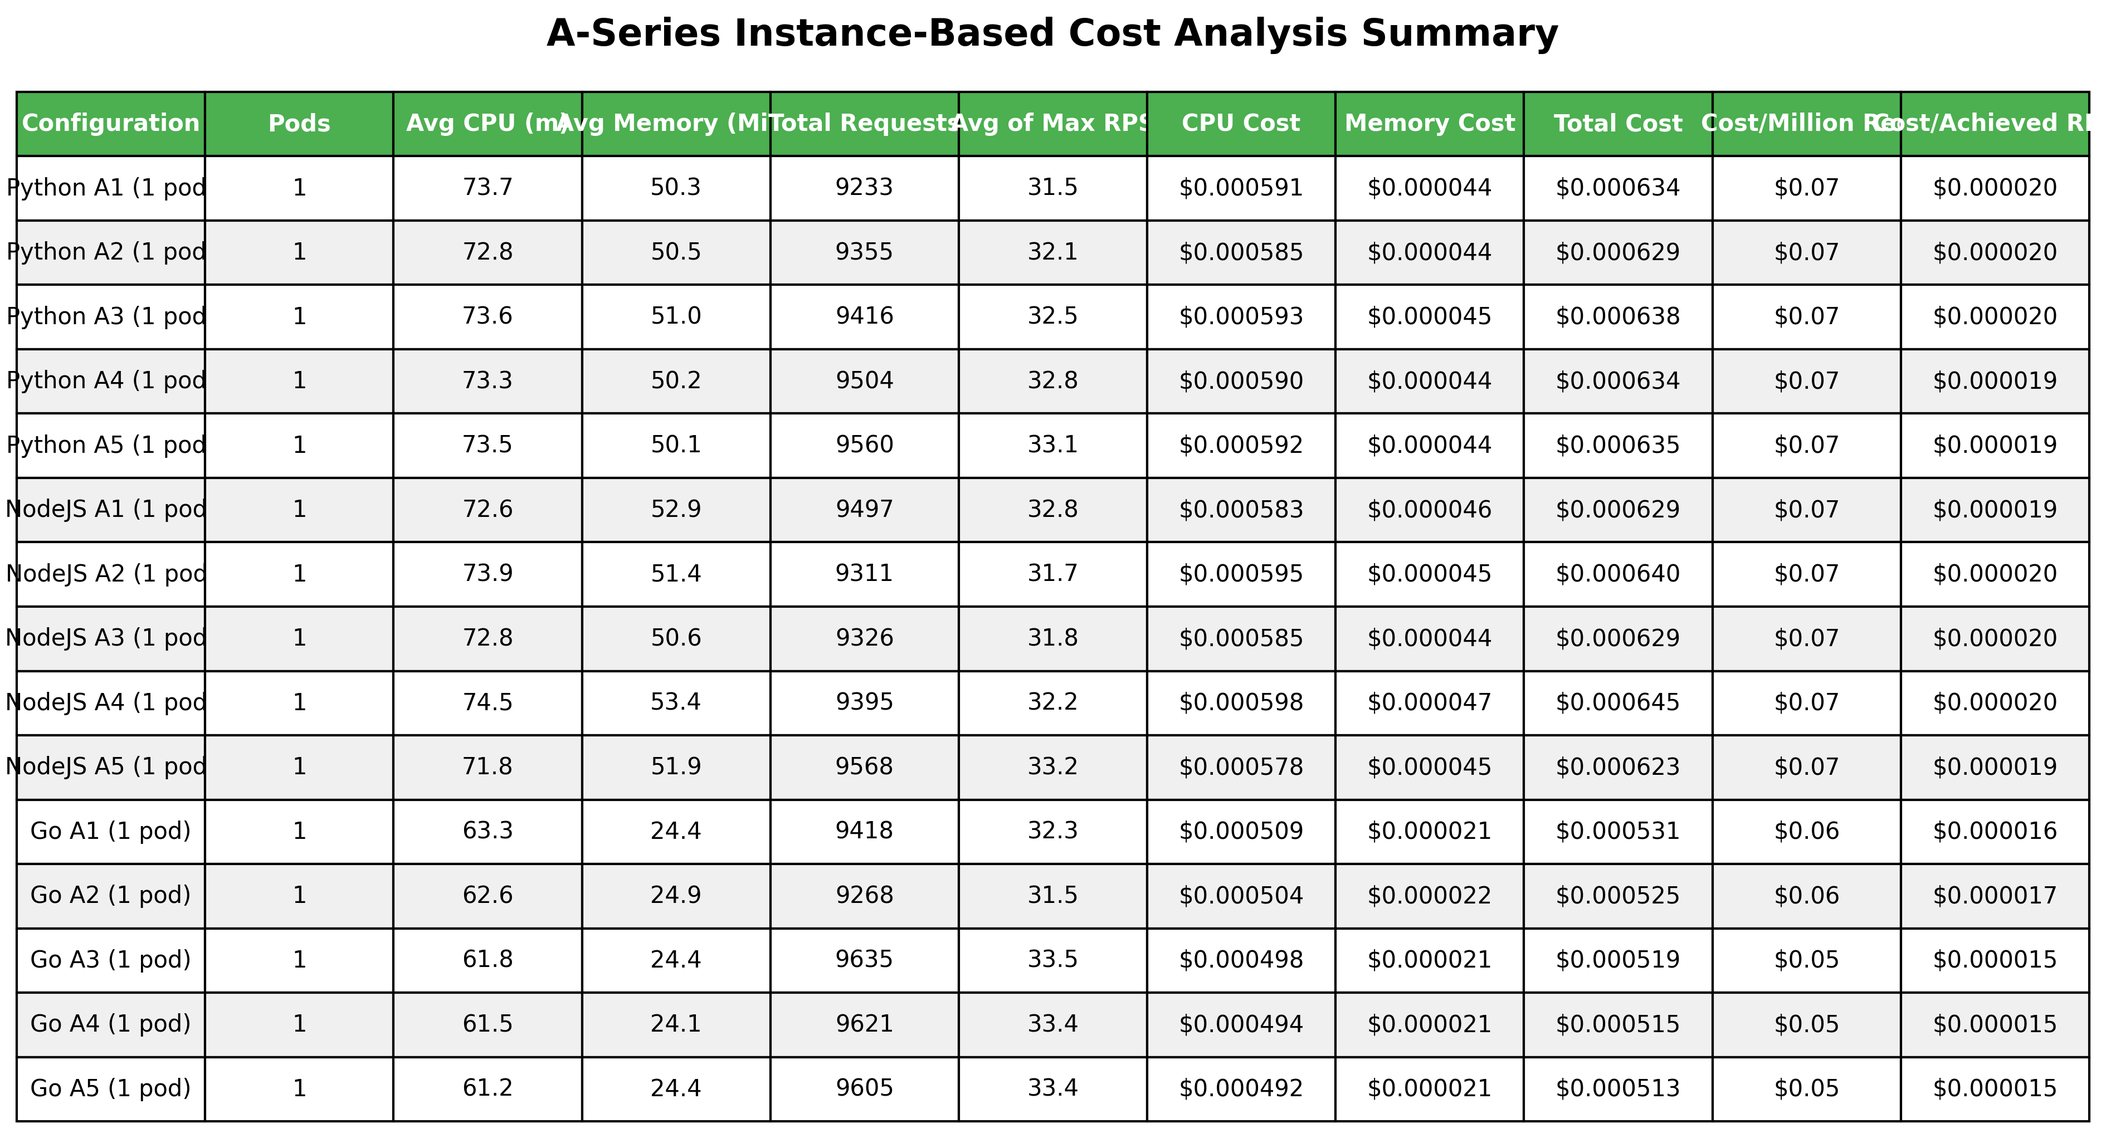
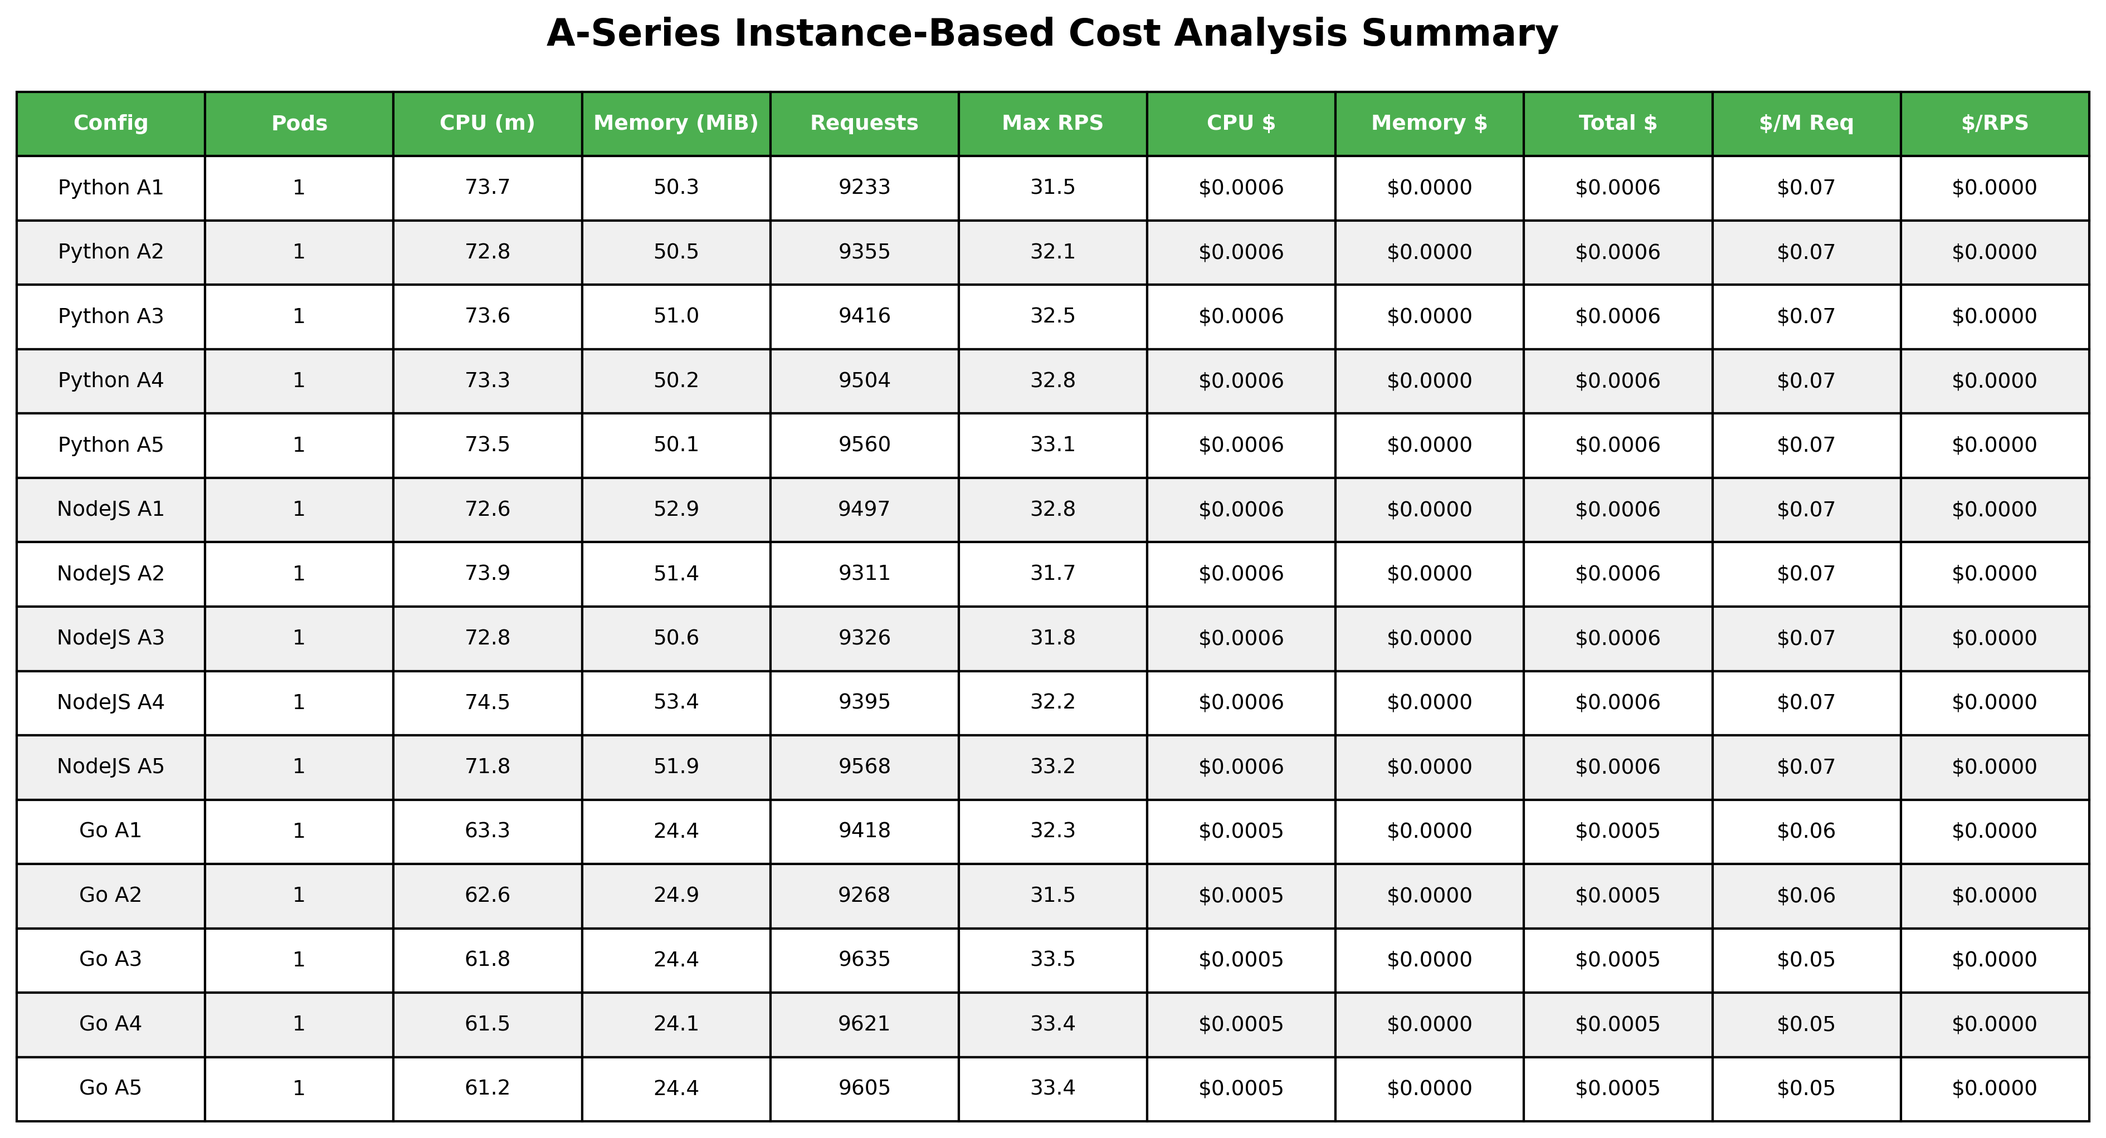
Improve visualization formatting and remove value labels
- Fix title positioning in a_series_max_throughput_comparison.png
- Move legend outside chart area to prevent overlap
- Remove value labels from simple cost comparison charts for cleaner appearance
- Fix bar naming alignment issues in cost visualizations
- Clean configuration names by removing pod count information
- Update titles to distinguish request-based vs instance-based visualizations
- Improve summary table formatting with shorter column names
- Regenerate all A, B, C series charts for both request-based and instance-based
- Add new scaling trend visualizations for A-series

diff --git a/latency_analysis/gcr_cost_visualizer.py b/latency_analysis/gcr_cost_visualizer.py
@@ -17,27 +17,27 @@ class GCRCostVisualizer:
     def plot_cost_comparison(self, results_df, series_type="B", save_path=None):
         """Create comprehensive cost comparison charts"""
         fig, ((ax1, ax2), (ax3, ax4)) = plt.subplots(2, 2, figsize=(15, 12))
-        fig.suptitle(f'Google Cloud Run {series_type.upper()}-Series Cost Analysis', fontsize=16, fontweight='bold')
+        fig.suptitle(f'Google Cloud Run {series_type.upper()}-Series Request-Based Cost Analysis', fontsize=16, fontweight='bold')
         
         # 1. Total Cost by Configuration
-        ax1.bar(results_df['config'], results_df['total_cost'], 
+        bars1 = ax1.bar(results_df['config'], results_df['total_cost'], 
                 color=self.colors[:len(results_df)], alpha=0.8)
         ax1.set_title('Total Cost by Configuration')
         ax1.set_ylabel('Cost (USD)')
         ax1.tick_params(axis='x', rotation=45)
         
         # Add value labels on bars
-        for i, v in enumerate(results_df['total_cost']):
-            ax1.text(i, v + max(results_df['total_cost']) * 0.01, f'${v:.6f}', 
-                    ha='center', va='bottom', fontweight='bold')
+        for i, (bar, v) in enumerate(zip(bars1, results_df['total_cost'])):
+            ax1.text(bar.get_x() + bar.get_width()/2, bar.get_height() + max(results_df['total_cost']) * 0.05, 
+                    f'${v:.6f}', ha='center', va='bottom', fontweight='bold', fontsize=9)
         
         # 2. Cost Breakdown (Compute vs Requests)
         width = 0.35
         x = np.arange(len(results_df))
         
-        ax2.bar(x, results_df['compute_cost'], width, label='Compute Cost', 
+        bars2a = ax2.bar(x, results_df['compute_cost'], width, label='Compute Cost', 
                 color='lightblue', alpha=0.8)
-        ax2.bar(x, results_df['request_cost'], width, bottom=results_df['compute_cost'],
+        bars2b = ax2.bar(x, results_df['request_cost'], width, bottom=results_df['compute_cost'],
                 label='Request Cost', color='lightcoral', alpha=0.8)
         
         ax2.set_title('Cost Breakdown: Compute vs Requests')
@@ -84,35 +84,45 @@ class GCRCostVisualizer:
         
     def plot_simple_cost_comparison(self, results_df, series_type="B", save_path=None):
         """Create simplified cost comparison charts (Total Cost + Cost Breakdown only)"""
-        fig, (ax1, ax2) = plt.subplots(1, 2, figsize=(15, 6))
-        fig.suptitle(f'Google Cloud Run {series_type.upper()}-Series Simple Cost Analysis', fontsize=16, fontweight='bold')
+        fig, (ax1, ax2) = plt.subplots(1, 2, figsize=(16, 8))
+        fig.suptitle(f'Google Cloud Run {series_type.upper()}-Series Request-Based Simple Cost Analysis', fontsize=16, fontweight='bold')
+        
+        # Clean config names by removing pod info for cleaner display
+        clean_configs = [config.split(' (')[0] for config in results_df['config']]
         
         # 1. Total Cost by Configuration
-        ax1.bar(results_df['config'], results_df['total_cost'], 
-                color=self.colors[:len(results_df)], alpha=0.8)
-        ax1.set_title('Total Cost by Configuration')
-        ax1.set_ylabel('Cost (USD)')
-        ax1.tick_params(axis='x', rotation=45)
+        x1 = np.arange(len(results_df))
+        bars1 = ax1.bar(x1, results_df['total_cost'], 
+                color=self.colors[:len(results_df)], alpha=0.8, width=0.7)
+        ax1.set_title('Total Cost by Configuration', fontsize=14, fontweight='bold')
+        ax1.set_ylabel('Cost (USD)', fontsize=12)
+        ax1.set_xticks(x1)
+        ax1.set_xticklabels(clean_configs, rotation=45, ha='right', fontsize=10)
         
-        # Add value labels on bars
-        for i, v in enumerate(results_df['total_cost']):
-            ax1.text(i, v + max(results_df['total_cost']) * 0.01, f'${v:.6f}', 
-                    ha='center', va='bottom', fontweight='bold')
+        # Set y-axis limit
+        max_cost = max(results_df['total_cost'])
+        ax1.set_ylim(0, max_cost * 1.1)
+        ax1.grid(True, alpha=0.3, axis='y')
         
         # 2. Cost Breakdown (Compute vs Requests)
-        width = 0.35
-        x = np.arange(len(results_df))
+        x2 = np.arange(len(results_df))
+        width = 0.7
         
-        ax2.bar(x, results_df['compute_cost'], width, label='Compute Cost', 
+        bars2a = ax2.bar(x2, results_df['compute_cost'], width, label='Compute Cost', 
                 color='lightblue', alpha=0.8)
-        ax2.bar(x, results_df['request_cost'], width, bottom=results_df['compute_cost'],
+        bars2b = ax2.bar(x2, results_df['request_cost'], width, bottom=results_df['compute_cost'],
                 label='Request Cost', color='lightcoral', alpha=0.8)
         
-        ax2.set_title('Cost Breakdown: Compute vs Requests')
-        ax2.set_ylabel('Cost (USD)')
-        ax2.set_xticks(x)
-        ax2.set_xticklabels(results_df['config'], rotation=45)
-        ax2.legend()
+        ax2.set_title('Cost Breakdown: Compute vs Requests', fontsize=14, fontweight='bold')
+        ax2.set_ylabel('Cost (USD)', fontsize=12)
+        ax2.set_xticks(x2)
+        ax2.set_xticklabels(clean_configs, rotation=45, ha='right', fontsize=10)
+        ax2.legend(fontsize=10)
+        ax2.grid(True, alpha=0.3, axis='y')
+        
+        # Set y-axis limit
+        max_total = max(results_df['total_cost'])
+        ax2.set_ylim(0, max_total * 1.1)
         
         plt.tight_layout()
         
@@ -165,7 +175,7 @@ class GCRCostVisualizer:
     def plot_cost_efficiency_analysis(self, results_df, series_type="B", save_path=None):
         """Create detailed cost efficiency analysis"""
         fig, ((ax1, ax2), (ax3, ax4)) = plt.subplots(2, 2, figsize=(15, 12))
-        fig.suptitle(f'{series_type.upper()}-Series Cost Efficiency Analysis', fontsize=16, fontweight='bold')
+        fig.suptitle(f'{series_type.upper()}-Series Request-Based Cost Efficiency Analysis', fontsize=16, fontweight='bold')
         
         # 1. Cost per Request
         cost_per_request = results_df['total_cost'] / results_df['total_requests'] * 1000000  # Cost per million requests
@@ -214,19 +224,20 @@ class GCRCostVisualizer:
         
     def create_cost_summary_table(self, results_df, series_type="B", save_path=None):
         """Create a formatted summary table"""
-        # Prepare data for table
+        # Prepare data for table - remove pod info from config names and shorten column names
+        config_names = results_df['config'].str.replace(r' \(\d+ pod\)', '', regex=True)
         summary_data = {
-            'Configuration': results_df['config'],
+            'Config': config_names,
             'Pods': results_df['pods'].astype(int),
-            'Avg CPU (m)': results_df['avg_cpu'].round(1),
-            'Avg Memory (MiB)': results_df['avg_memory'].round(1),
-            'Total Requests': results_df['total_requests'].astype(int),
-            'Avg of Max RPS': results_df['avg_of_max_rps'].round(1) if 'avg_of_max_rps' in results_df.columns else 'N/A',
-            'Compute Cost': results_df['compute_cost'].apply(lambda x: f"${x:.6f}"),
-            'Request Cost': results_df['request_cost'].apply(lambda x: f"${x:.6f}"),
-            'Total Cost': results_df['total_cost'].apply(lambda x: f"${x:.6f}"),
-            'Cost/Million Req': (results_df['total_cost'] / results_df['total_requests'] * 1000000).apply(lambda x: f"${x:.2f}"),
-            'Cost/Achieved RPS': results_df['cost_per_rps'].apply(lambda x: f"${x:.6f}" if pd.notna(x) else 'N/A')
+            'CPU (m)': results_df['avg_cpu'].round(1),
+            'Memory (MiB)': results_df['avg_memory'].round(1),
+            'Requests': results_df['total_requests'].astype(int),
+            'Max RPS': results_df['avg_of_max_rps'].round(1) if 'avg_of_max_rps' in results_df.columns else 'N/A',
+            'Compute $': results_df['compute_cost'].apply(lambda x: f"${x:.4f}"),
+            'Request $': results_df['request_cost'].apply(lambda x: f"${x:.4f}"),
+            'Total $': results_df['total_cost'].apply(lambda x: f"${x:.4f}"),
+            '$/M Req': (results_df['total_cost'] / results_df['total_requests'] * 1000000).apply(lambda x: f"${x:.2f}"),
+            '$/RPS': results_df['cost_per_rps'].apply(lambda x: f"${x:.4f}" if pd.notna(x) else 'N/A')
         }
         
         summary_df = pd.DataFrame(summary_data)
@@ -243,8 +254,8 @@ class GCRCostVisualizer:
                         bbox=[0, 0, 1, 1])
         
         table.auto_set_font_size(False)
-        table.set_fontsize(10)
-        table.scale(1.2, 2)
+        table.set_fontsize(9)
+        table.scale(1.0, 1.8)
         
         # Style the table
         for i in range(len(summary_df.columns)):
@@ -257,7 +268,7 @@ class GCRCostVisualizer:
                 if i % 2 == 0:
                     table[(i, j)].set_facecolor('#f0f0f0')
         
-        plt.title(f'{series_type.upper()}-Series Cost Analysis Summary', fontsize=16, fontweight='bold', pad=20)
+        plt.title(f'{series_type.upper()}-Series Request-Based Cost Analysis Summary', fontsize=16, fontweight='bold', pad=20)
         
         if save_path:
             plt.savefig(save_path, dpi=300, bbox_inches='tight')
@@ -377,7 +388,7 @@ if __name__ == "__main__":
     # Import the cost calculator (assuming it's in the same directory)
     from gcr_cost_calculator import GCRCostCalculator
     
-    parser = argparse.ArgumentParser(description='GCR Cost Visualizer for A, B, and C Series')
+    parser = argparse.ArgumentParser(description='GCR Request-Based Cost Visualizer for A, B, and C Series')
     parser.add_argument('--series', '-s', choices=['A', 'B', 'C'], default='B',
                        help='Series type to analyze (A, B, or C). Default: B')
     parser.add_argument('--data-dir', '-d', default='.',
@@ -402,7 +413,7 @@ if __name__ == "__main__":
     else:
         output_dir = f"{args.series.lower()}_series_gcr_costs"
     
-    print(f"Generating visualizations for {args.series}-series configurations...")
+    print(f"Generating request-based visualizations for {args.series}-series configurations...")
     print(f"Data directory: {data_directory}")
     print(f"Output directory: {output_dir}")
     print("-" * 60)

diff --git a/latency_analysis/gcr_cost_visualizer_inst.py b/latency_analysis/gcr_cost_visualizer_inst.py
@@ -20,24 +20,24 @@ class GCRInstanceCostVisualizer:
         fig.suptitle(f'Google Cloud Run {series_type.upper()}-Series Instance-Based Cost Analysis', fontsize=16, fontweight='bold')
         
         # 1. Total Cost by Configuration
-        ax1.bar(results_df['config'], results_df['total_cost'], 
+        bars1 = ax1.bar(results_df['config'], results_df['total_cost'], 
                 color=self.colors[:len(results_df)], alpha=0.8)
         ax1.set_title('Total Cost by Configuration')
         ax1.set_ylabel('Cost (USD)')
         ax1.tick_params(axis='x', rotation=45)
         
         # Add value labels on bars
-        for i, v in enumerate(results_df['total_cost']):
-            ax1.text(i, v + max(results_df['total_cost']) * 0.01, f'${v:.6f}', 
-                    ha='center', va='bottom', fontweight='bold')
+        for i, (bar, v) in enumerate(zip(bars1, results_df['total_cost'])):
+            ax1.text(bar.get_x() + bar.get_width()/2, bar.get_height() + max(results_df['total_cost']) * 0.05, 
+                    f'${v:.6f}', ha='center', va='bottom', fontweight='bold', fontsize=9)
         
         # 2. Cost Breakdown (CPU vs Memory) - CHANGED: No request costs
         width = 0.35
         x = np.arange(len(results_df))
         
-        ax2.bar(x, results_df['cpu_cost'], width, label='CPU Cost', 
+        bars2a = ax2.bar(x, results_df['cpu_cost'], width, label='CPU Cost', 
                 color='lightblue', alpha=0.8)
-        ax2.bar(x, results_df['memory_cost'], width, bottom=results_df['cpu_cost'],
+        bars2b = ax2.bar(x, results_df['memory_cost'], width, bottom=results_df['cpu_cost'],
                 label='Memory Cost', color='lightgreen', alpha=0.8)
         
         ax2.set_title('Cost Breakdown: CPU vs Memory')
@@ -83,35 +83,45 @@ class GCRInstanceCostVisualizer:
         
     def plot_simple_cost_comparison(self, results_df, series_type="B", save_path=None):
         """Create simplified cost comparison charts (Total Cost + Cost Breakdown only)"""
-        fig, (ax1, ax2) = plt.subplots(1, 2, figsize=(15, 6))
+        fig, (ax1, ax2) = plt.subplots(1, 2, figsize=(16, 8))
         fig.suptitle(f'Google Cloud Run {series_type.upper()}-Series Instance-Based Simple Cost Analysis', fontsize=16, fontweight='bold')
         
+        # Clean config names by removing pod info for cleaner display
+        clean_configs = [config.split(' (')[0] for config in results_df['config']]
+        
         # 1. Total Cost by Configuration
-        ax1.bar(results_df['config'], results_df['total_cost'], 
-                color=self.colors[:len(results_df)], alpha=0.8)
-        ax1.set_title('Total Cost by Configuration')
-        ax1.set_ylabel('Cost (USD)')
-        ax1.tick_params(axis='x', rotation=45)
+        x1 = np.arange(len(results_df))
+        bars1 = ax1.bar(x1, results_df['total_cost'], 
+                color=self.colors[:len(results_df)], alpha=0.8, width=0.7)
+        ax1.set_title('Total Cost by Configuration', fontsize=14, fontweight='bold')
+        ax1.set_ylabel('Cost (USD)', fontsize=12)
+        ax1.set_xticks(x1)
+        ax1.set_xticklabels(clean_configs, rotation=45, ha='right', fontsize=10)
         
-        # Add value labels on bars
-        for i, v in enumerate(results_df['total_cost']):
-            ax1.text(i, v + max(results_df['total_cost']) * 0.01, f'${v:.6f}', 
-                    ha='center', va='bottom', fontweight='bold')
+        # Set y-axis limit
+        max_cost = max(results_df['total_cost'])
+        ax1.set_ylim(0, max_cost * 1.1)
+        ax1.grid(True, alpha=0.3, axis='y')
         
-        # 2. Cost Breakdown (CPU vs Memory) - CHANGED: No request costs
-        width = 0.35
-        x = np.arange(len(results_df))
+        # 2. Cost Breakdown (CPU vs Memory)
+        x2 = np.arange(len(results_df))
+        width = 0.7
         
-        ax2.bar(x, results_df['cpu_cost'], width, label='CPU Cost', 
+        bars2a = ax2.bar(x2, results_df['cpu_cost'], width, label='CPU Cost', 
                 color='lightblue', alpha=0.8)
-        ax2.bar(x, results_df['memory_cost'], width, bottom=results_df['cpu_cost'],
+        bars2b = ax2.bar(x2, results_df['memory_cost'], width, bottom=results_df['cpu_cost'],
                 label='Memory Cost', color='lightgreen', alpha=0.8)
         
-        ax2.set_title('Cost Breakdown: CPU vs Memory')
-        ax2.set_ylabel('Cost (USD)')
-        ax2.set_xticks(x)
-        ax2.set_xticklabels(results_df['config'], rotation=45)
-        ax2.legend()
+        ax2.set_title('Cost Breakdown: CPU vs Memory', fontsize=14, fontweight='bold')
+        ax2.set_ylabel('Cost (USD)', fontsize=12)
+        ax2.set_xticks(x2)
+        ax2.set_xticklabels(clean_configs, rotation=45, ha='right', fontsize=10)
+        ax2.legend(fontsize=10)
+        ax2.grid(True, alpha=0.3, axis='y')
+        
+        # Set y-axis limit
+        max_total = max(results_df['total_cost'])
+        ax2.set_ylim(0, max_total * 1.1)
         
         plt.tight_layout()
         
@@ -223,19 +233,20 @@ class GCRInstanceCostVisualizer:
         
     def create_cost_summary_table(self, results_df, series_type="B", save_path=None):
         """Create a formatted summary table for instance-based billing"""
-        # Prepare data for table - CHANGED: No request costs
+        # Prepare data for table - remove pod info from config names and shorten column names
+        config_names = results_df['config'].str.replace(r' \(\d+ pod\)', '', regex=True)
         summary_data = {
-            'Configuration': results_df['config'],
+            'Config': config_names,
             'Pods': results_df['pods'].astype(int),
-            'Avg CPU (m)': results_df['avg_cpu'].round(1),
-            'Avg Memory (MiB)': results_df['avg_memory'].round(1),
-            'Total Requests': results_df['total_requests'].astype(int),
-            'Avg of Max RPS': results_df['avg_of_max_rps'].round(1) if 'avg_of_max_rps' in results_df.columns else 'N/A',
-            'CPU Cost': results_df['cpu_cost'].apply(lambda x: f"${x:.6f}"),
-            'Memory Cost': results_df['memory_cost'].apply(lambda x: f"${x:.6f}"),
-            'Total Cost': results_df['total_cost'].apply(lambda x: f"${x:.6f}"),
-            'Cost/Million Req': results_df['cost_per_million_requests'].apply(lambda x: f"${x:.2f}"),
-            'Cost/Achieved RPS': results_df['cost_per_rps'].apply(lambda x: f"${x:.6f}" if pd.notna(x) else 'N/A')
+            'CPU (m)': results_df['avg_cpu'].round(1),
+            'Memory (MiB)': results_df['avg_memory'].round(1),
+            'Requests': results_df['total_requests'].astype(int),
+            'Max RPS': results_df['avg_of_max_rps'].round(1) if 'avg_of_max_rps' in results_df.columns else 'N/A',
+            'CPU $': results_df['cpu_cost'].apply(lambda x: f"${x:.4f}"),
+            'Memory $': results_df['memory_cost'].apply(lambda x: f"${x:.4f}"),
+            'Total $': results_df['total_cost'].apply(lambda x: f"${x:.4f}"),
+            '$/M Req': results_df['cost_per_million_requests'].apply(lambda x: f"${x:.2f}"),
+            '$/RPS': results_df['cost_per_rps'].apply(lambda x: f"${x:.4f}" if pd.notna(x) else 'N/A')
         }
         
         summary_df = pd.DataFrame(summary_data)
@@ -252,8 +263,8 @@ class GCRInstanceCostVisualizer:
                         bbox=[0, 0, 1, 1])
         
         table.auto_set_font_size(False)
-        table.set_fontsize(10)
-        table.scale(1.2, 2)
+        table.set_fontsize(9)
+        table.scale(1.0, 1.8)
         
         # Style the table
         for i in range(len(summary_df.columns)):

diff --git a/latency_analysis/a_series_visualizations.py b/latency_analysis/a_series_visualizations.py
@@ -538,6 +538,7 @@ class ASeriesVisualizer:
             return
         
         fig, ax = plt.subplots(figsize=(14, 8))
+        fig.subplots_adjust(top=0.85)
         
         # Set up grouped bar chart
         runs = ["A1", "A2", "A3", "A4", "A5"]
@@ -571,7 +572,7 @@ class ASeriesVisualizer:
         ax.set_xlabel('Configuration', fontsize=12, fontweight='bold')
         ax.set_ylabel('Maximum Achieved Throughput (RPS)', fontsize=12, fontweight='bold')
         ax.set_title('A-Series Maximum Throughput by Configuration\nResource Scaling Analysis (containerConcurrency=1)', 
-                    fontsize=14, fontweight='bold', pad=20)
+                    fontsize=14, fontweight='bold', pad=60, y=1.02)
         
         # Add configuration details
         config_labels = []
@@ -581,10 +582,10 @@ class ASeriesVisualizer:
         
         ax.set_xticks(x + width)
         ax.set_xticklabels(config_labels, fontsize=10)
-        ax.legend(fontsize=11)
+        ax.legend(bbox_to_anchor=(1.05, 1), loc='upper left', fontsize=11)
         ax.grid(True, alpha=0.3, axis='y')
         
-        plt.tight_layout()
+        plt.tight_layout(pad=3.0)
         
         filename = "a_series_max_throughput_comparison.png"
         self._save_chart(filename, fig)
